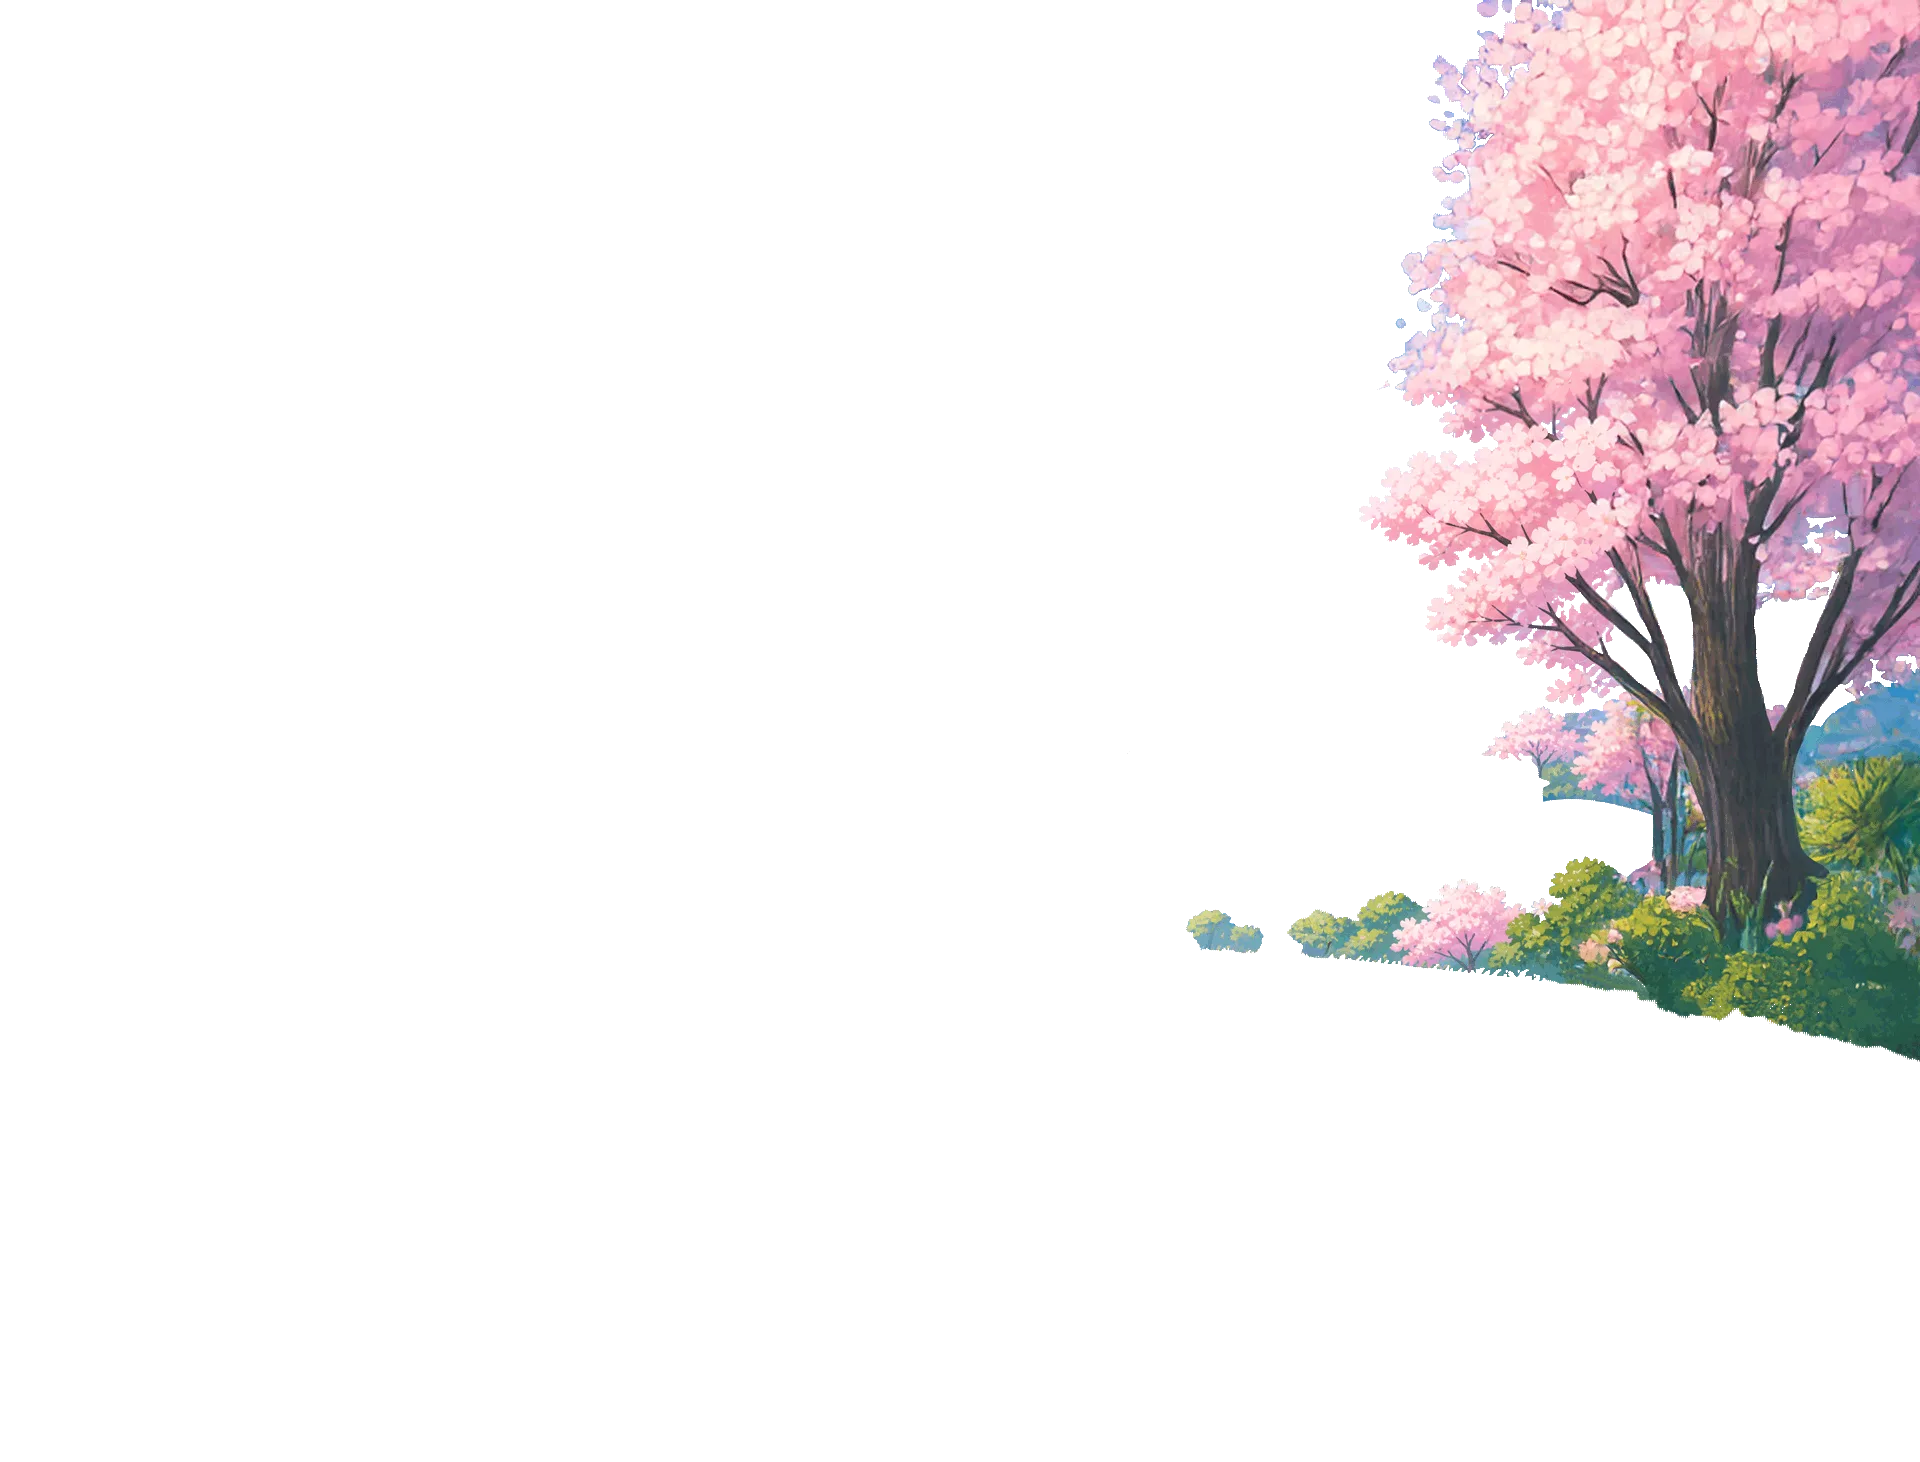
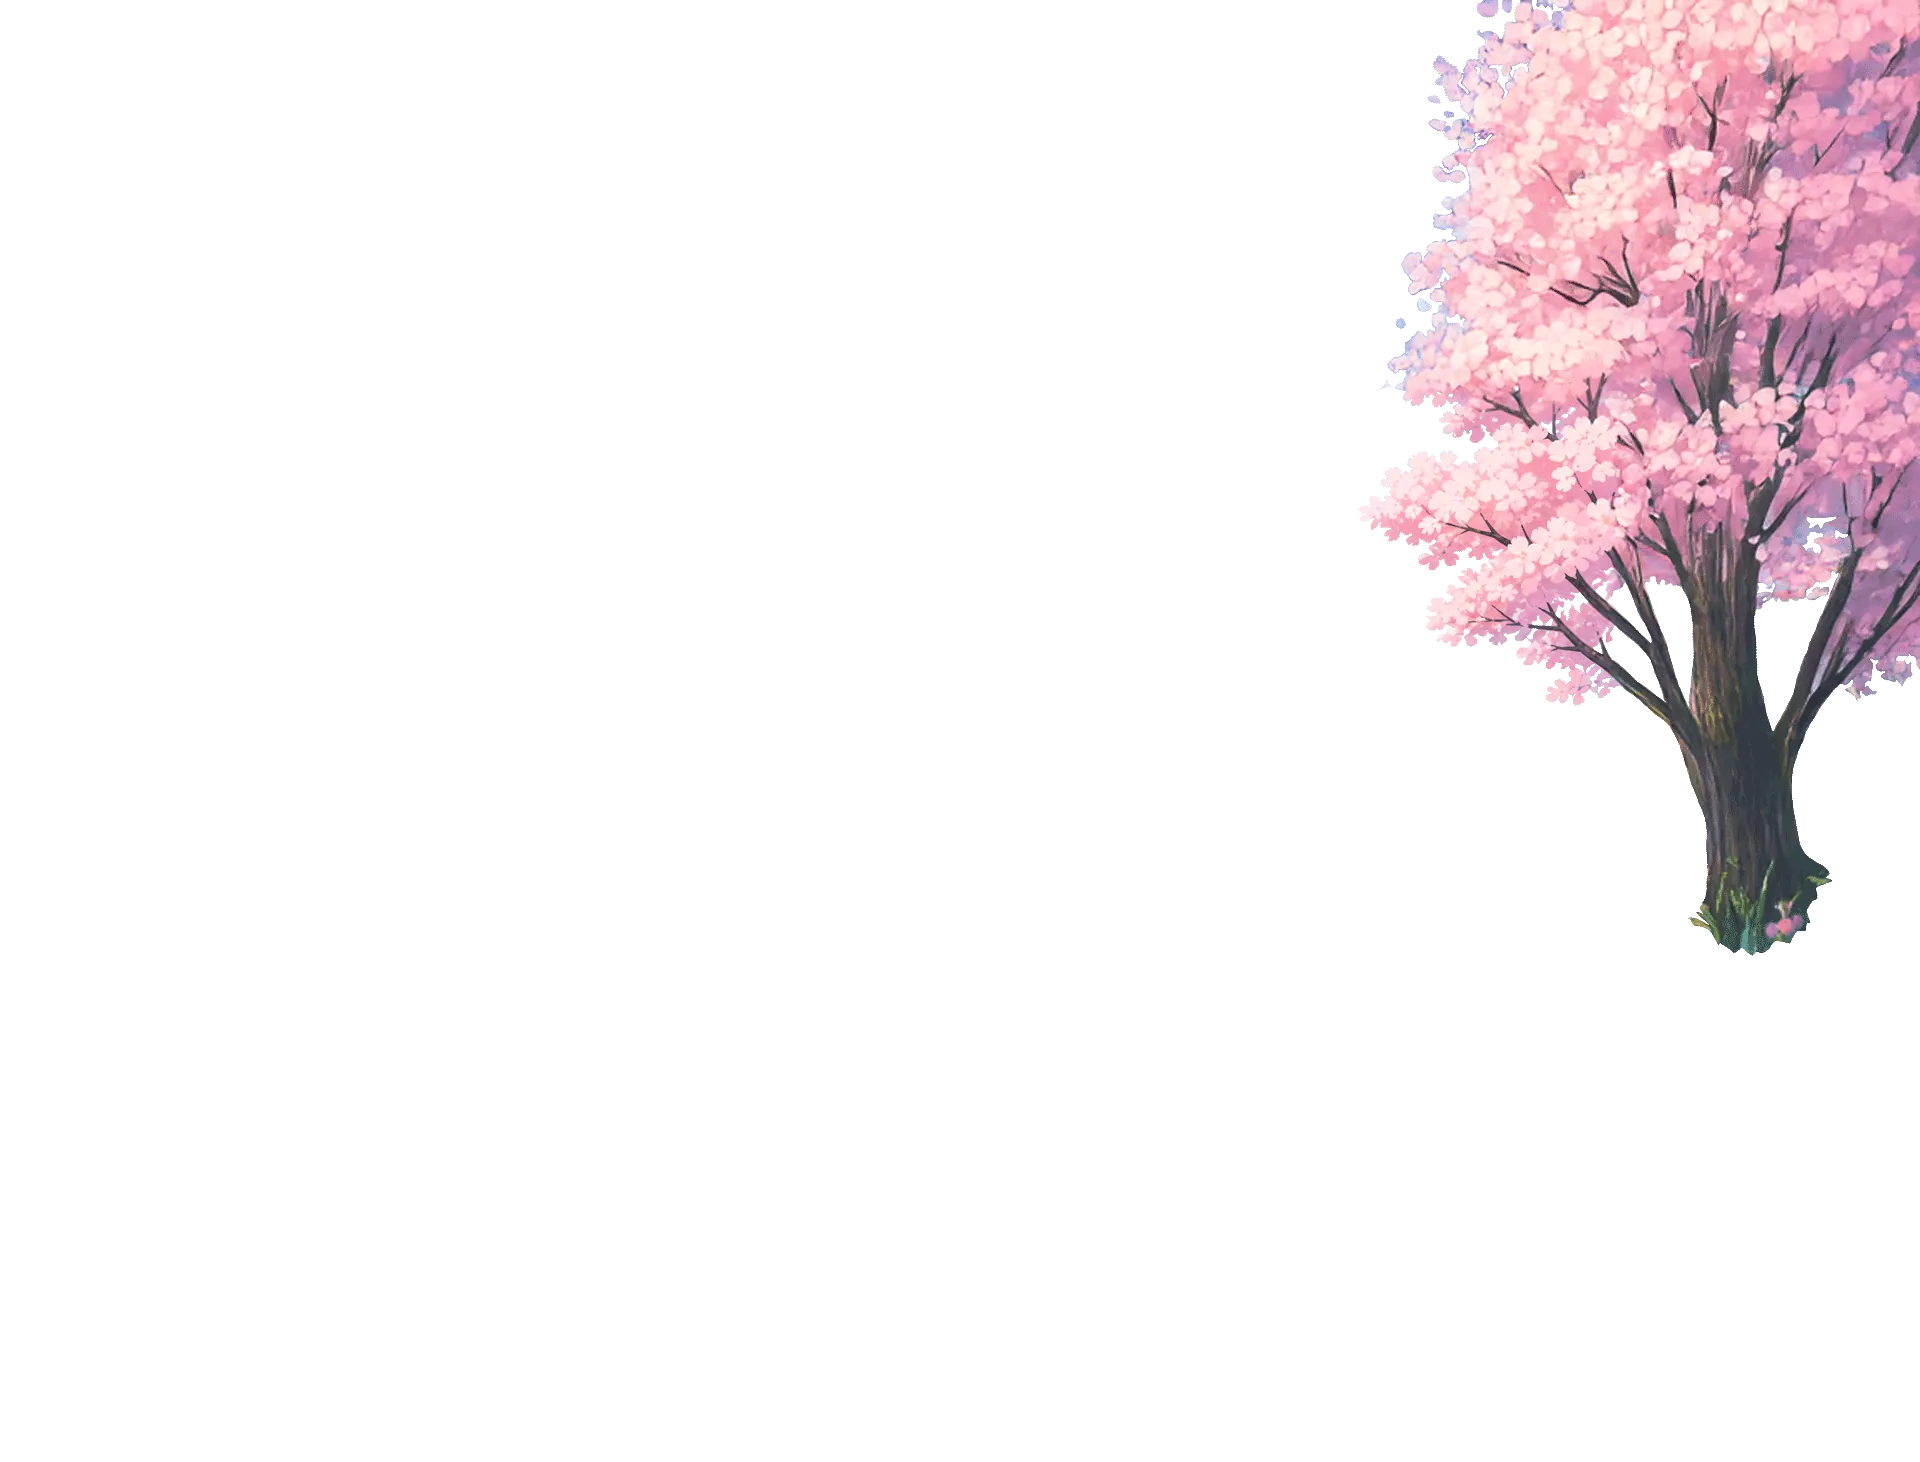
Hero: lighter v2 bg layers, mobile mascots/shadows per Figma, inline shadow blur
- Background: replace the 5-layer set with a lighter 4-layer v2 — sky +
  mountains + lake flattened into one opaque 01-base.webp, plus tree-L/R
  and grass. ~540KB → ~440KB and one fewer request. DEPTH/preload/loops
  updated across all 3 layouts.
- Mobile mascots: resize to 0.4x of desktop (Figma 773:40684 size="sm")
  — pepe 70x93.62, printer 132.4x115.48, shibu 82x108.69.
- Add the mobile drop-shadow layer (Figma 665:56490) that was missing,
  inside the parallax group so it tracks the crew.
- Render all shadows inline (was <img>): Safari drops SVG feGaussianBlur
  on <img>, so the shadow ellipses showed hard-edged there. Generalize
  the Mascot helper to InlineSvg and namespace internal ids (useId) so
  the shadows reused across breakpoints don't collide.

Changed region(s): [[0.625, 0.4617, 1.0, 0.7387]]

diff --git a/src/components/sections/Hero.tsx b/src/components/sections/Hero.tsx
@@ -1,4 +1,4 @@
-import { useEffect, useRef, useState, type ReactNode } from 'react'
+import { useEffect, useId, useRef, useState, type ReactNode } from 'react'
 import {
   motion,
   useReducedMotion,
@@ -15,6 +15,12 @@ import { asset } from '@/lib/utils'
  * render them as an opaque raster and hide those groups. */
 import pepeSvg from '@/assets/figma/pepe.svg?raw'
 import shibuSvg from '@/assets/figma/shibu.svg?raw'
+/* Shadows are inlined too: their soft blobs use SVG `feGaussianBlur`,
+ * and Safari does NOT render SVG filters when the SVG is loaded via
+ * <img> (Chrome does) — so as <img> the shadows showed hard-edged
+ * ellipses in Safari. Inline in the DOM, the blur renders everywhere. */
+import shadowsSvg from '@/assets/figma/shadows.svg?raw'
+import shadowsMobileSvg from '@/assets/figma/shadows-mobile.svg?raw'
 
 /* ============================================================
  * Entrance cascade timeline (seconds from mount):
@@ -40,26 +46,31 @@ const CONTENT_STAGGER = 0.13
 const CONTENT_RISE_DURATION = 0.55
 
 /* ============================================================
- * Layered parallax — the flat scene was split into 5 transparent
- * 1920×1462 layers (same registration as the original
- * background.webp). The full-canvas `01-sky` layer is the backmost
- * plate; the rest overlay it 1:1. (The flat background.webp base was
- * removed: it held a full copy of the scene that stayed put while the
- * foreground rose on scroll, reading as a duplicate image below.)
+ * Layered parallax (v2 set) — the scene is built from 4 1920×1462
+ * layers, all on the same registration:
+ *   01-base  — opaque sky + mountains + lake (the backmost plate)
+ *   02-tree-L / 03-tree-R — the transparent framing cherry trees
+ *   04-grass — the transparent foreground meadow (carries the mascots)
+ * (Earlier the back was split into separate sky + lake layers; they're
+ * now flattened into one base JPG→WebP — one fewer request, lighter.)
  * Each layer shifts by `depth × SCROLL_PX` with scroll only (the
  * cursor-driven parallax was removed). SCROLL_PX is NEGATIVE so on
  * scroll-down every layer rises, and since the offset scales with depth
  * the foreground (grass + mascots, depth 1) rises faster than the
- * background (sky, depth 0.04) — classic depth parallax. The grass
- * layer carries the three mascots (nested in its group), so the
- * characters stay locked to the floor.
+ * base (depth 0.06) — classic depth parallax. The grass layer carries
+ * the three mascots (nested in its group), so they stay locked to the
+ * floor.
  * ============================================================ */
 const SCROLL_PX = -280
 /* Mobile uses a much smaller scroll travel: the hero is a fixed 655 px
  * frame, so the desktop -280 px would shoot the foreground up past the
  * CTA and expose the static base behind it (the "doubled" image). */
 const MOBILE_SCROLL_PX = -42
-const DEPTH = { sky: 0.04, lake: 0.12, tree: 0.55, grass: 1 } as const
+/* v2 layer set: sky + mountains + lake are now baked into a single
+ * opaque `01-base` plate (lighter — one fewer layer), with the framing
+ * trees and the foreground grass as the only transparent overlays. The
+ * base sits furthest back so it gets the smallest parallax depth. */
+const DEPTH = { base: 0.06, tree: 0.55, grass: 1 } as const
 const layerSrc = (n: string) => asset(`/assets/figma/hero-layers/${n}.webp`)
 
 /* Every graphic that makes up the hero illustration, across all
@@ -68,15 +79,13 @@ const layerSrc = (n: string) => asset(`/assets/figma/hero-layers/${n}.webp`)
  * gated on ALL of these being decoded so the scene reveals as one
  * piece (no mascot popping in over a still-loading background). */
 const HERO_ASSETS = [
-  '/assets/figma/hero-layers/01-sky.webp',
-  '/assets/figma/hero-layers/02-lake.webp',
-  '/assets/figma/hero-layers/03-tree-L.webp',
+  '/assets/figma/hero-layers/01-base.webp',
+  '/assets/figma/hero-layers/02-tree-L.webp',
   '/assets/figma/hero-layers/03-tree-R.webp',
   '/assets/figma/hero-layers/04-grass.webp',
   // Pepe & Shibu are inlined (bundled, not fetched) so they're ready
   // the instant React renders — no need to gate the fade on them.
   '/assets/figma/hero-mascot.svg',
-  '/assets/figma/shadows.svg',
   '/assets/figma/hill-ellipse.svg',
 ] as const
 
@@ -148,18 +157,16 @@ function ParallaxGroup({
 }
 
 /**
- * An inline mascot SVG (Pepe / Shibu). Renders the raw `?raw` markup so
- * the `.bm-body` / `.bm-eye-*` groups stay live in the DOM for the CSS
- * breathe + blink animations baked into each SVG's own <style> (scoped
- * under a per-character root class, with per-character transform-origins
- * and timing). Sized exactly like the <img> it replaces: the wrapper
- * carries the width/height + position and `[&>svg]:size-full` stretches
- * the inner <svg> to fill it (the wrapper dims already match each viewBox
- * aspect, so there's no letterboxing). `overflow-visible` lets the subtle
- * breathe scale paint past the viewBox edge instead of being clipped by
- * the SVG viewport (the art fills the canvas to the edges).
+ * Renders a raw (`?raw`) SVG string inline in the DOM (not via <img>).
+ * Used for the mascots (so the `.bm-body` / `.bm-eye-*` groups stay live
+ * for the CSS breathe/blink animations baked into each SVG's <style>) and
+ * for the drop shadows (so their `feGaussianBlur` actually renders in
+ * Safari — Safari drops SVG filters on <img>). The wrapper carries the
+ * width/height + position and `[&>svg]:size-full` stretches the inner
+ * <svg> to fill it; `overflow-visible` lets the mascot breathe-scale and
+ * the shadow blur paint past the viewBox edge instead of being clipped.
  */
-function Mascot({
+function InlineSvg({
   svg,
   className,
   style,
@@ -170,6 +177,17 @@ function Mascot({
   style?: React.CSSProperties
   label?: string
 }) {
+  /* Namespace internal ids (filter / gradient / clip) per instance so
+   * the same SVG inlined in more than one breakpoint block (e.g. the
+   * desktop shadows reused in the tablet layout) doesn't emit duplicate
+   * ids — a `url(#id)` could otherwise resolve to a hidden copy and drop
+   * the filter. Only touches id= / url(#…) / href="#…"; the mascots have
+   * no ids (class-scoped), so they're unaffected. */
+  const uid = useId().replace(/[^a-zA-Z0-9]/g, '')
+  const html = svg
+    .replace(/\bid="([^"]+)"/g, (_m, id) => `id="${id}-${uid}"`)
+    .replace(/url\(#([^)]+)\)/g, (_m, id) => `url(#${id}-${uid})`)
+    .replace(/\b(xlink:href|href)="#([^"]+)"/g, (_m, attr, id) => `${attr}="#${id}-${uid}"`)
   return (
     <div
       role={label ? 'img' : undefined}
@@ -177,7 +195,7 @@ function Mascot({
       aria-hidden={label ? undefined : true}
       className={`pointer-events-none [&>svg]:size-full [&>svg]:overflow-visible ${className ?? ''}`}
       style={style}
-      dangerouslySetInnerHTML={{ __html: svg }}
+      dangerouslySetInnerHTML={{ __html: html }}
     />
   )
 }
@@ -336,7 +354,7 @@ export default function Hero() {
               removed — it held a full copy of the scene that stayed put
               while the foreground rose on scroll, reading as a duplicate
               image below the parallaxing layers.) */}
-          {(['01-sky:sky', '02-lake:lake', '03-tree-L:tree', '03-tree-R:tree'] as const).map(
+          {(['01-base:base', '02-tree-L:tree', '03-tree-R:tree'] as const).map(
             (entry) => {
               const [file, key] = entry.split(':') as [string, keyof typeof DEPTH]
               return (
@@ -372,16 +390,16 @@ export default function Hero() {
               className="absolute top-[-220px] left-0 block h-auto w-[1920px] max-w-none"
             />
 
-            {/* Drop shadows under mascots */}
-            <img
-              src={asset('/assets/figma/shadows.svg')}
-              alt=""
-              className="absolute top-[784px] left-[600.63px] h-[74.208px] w-[747.384px] mix-blend-multiply"
-              data-node-id="384:2213"
+            {/* Drop shadows under mascots — inline so the blur renders
+                in Safari (filters are dropped on <img> there). */}
+            <InlineSvg
+              svg={shadowsSvg}
+              className="absolute mix-blend-multiply"
+              style={{ top: 784, left: 600.63, width: 747.384, height: 74.208 }}
             />
 
             {/* Frog (Pepe) — inline SVG, breathes + blinks */}
-            <Mascot
+            <InlineSvg
               svg={pepeSvg}
               label="Pepe the frog"
               className="absolute h-[231.81px] w-[175.07px] max-w-none"
@@ -390,7 +408,7 @@ export default function Hero() {
 
             {/* Dog (Shibu) — inline SVG, offset rhythm so it doesn't
                 blink in lockstep with Pepe */}
-            <Mascot
+            <InlineSvg
               svg={shibuSvg}
               label="Shiba the dog"
               className="absolute h-[269.75px] w-[205.77px] max-w-none"
@@ -478,7 +496,7 @@ export default function Hero() {
          * → these parallax with scroll only. (The old flat
          * `background.webp` base was removed; it duplicated below on
          * scroll.) */}
-        {(['01-sky:sky', '02-lake:lake', '03-tree-L:tree', '03-tree-R:tree', '04-grass:grass'] as const).map(
+        {(['01-base:base', '02-tree-L:tree', '03-tree-R:tree', '04-grass:grass'] as const).map(
           (entry) => {
             const [file, key] = entry.split(':') as [string, keyof typeof DEPTH]
             return (
@@ -537,22 +555,36 @@ export default function Hero() {
             scrollPx={MOBILE_SCROLL_PX}
             className="absolute inset-0"
           >
-            <Mascot
+            {/* Drop shadows under the crew — Figma 665:56490. One SVG with
+             * 3 blurred ellipses spaced for the mobile mascot layout (the
+             * desktop shadows graphic has different spacing). Positioned at
+             * the blur-bled box (Figma box 18.16/470/321.75×35.24 expanded
+             * by the inner -8.21%/-0.87%… inset). Painted first so it sits
+             * under the mascots; mix-blend-multiply blends it into the
+             * grass behind. */}
+            <InlineSvg
+              svg={shadowsMobileSvg}
+              className="absolute max-w-none mix-blend-multiply"
+              style={{ left: 15.36, top: 467.11, width: 326.218, height: 39.803 }}
+            />
+            {/* Mascots — mobile sizes are 0.4× of desktop (Figma 773:40684,
+             * size="sm"); positions are the Figma left/top in the 360 frame. */}
+            <InlineSvg
               svg={pepeSvg}
               className="absolute max-w-none"
-              style={{ left: 15.2, top: 403.2, width: 78, height: 103.27 }}
+              style={{ left: 15.2, top: 403.2, width: 69.998, height: 93.62 }}
             />
             <img
               src={asset('/assets/figma/hero-mascot.svg')}
               alt=""
               aria-hidden
               className="absolute max-w-none"
-              style={{ left: 107, top: 376, width: 148 }}
+              style={{ left: 107, top: 376, width: 132.399, height: 115.48 }}
             />
-            <Mascot
+            <InlineSvg
               svg={shibuSvg}
               className="absolute max-w-none"
-              style={{ left: 261.4, top: 392.4, width: 91.5, height: 119.96 }}
+              style={{ left: 261.4, top: 392.4, width: 82.002, height: 108.69 }}
             />
           </ParallaxGroup>
         </div>
@@ -625,7 +657,7 @@ export default function Hero() {
            * `background.webp` base was removed — it held a full copy of
            * the scene that stayed put on scroll, reading as a duplicate
            * below the parallaxing layers.) */}
-          {(['01-sky:sky', '02-lake:lake', '03-tree-L:tree', '03-tree-R:tree'] as const).map(
+          {(['01-base:base', '02-tree-L:tree', '03-tree-R:tree'] as const).map(
             (entry) => {
               const [file, key] = entry.split(':') as [string, keyof typeof DEPTH]
               return (
@@ -668,12 +700,11 @@ export default function Hero() {
               }}
             />
 
-            {/* Drop shadows under mascots — Figma 1006:113050. */}
-            <img
-              src={asset('/assets/figma/shadows.svg')}
-              alt=""
-              aria-hidden
-              className="absolute block max-w-none mix-blend-multiply"
+            {/* Drop shadows under mascots — Figma 1006:113050. Inline so
+                the blur renders in Safari. */}
+            <InlineSvg
+              svg={shadowsSvg}
+              className="absolute max-w-none mix-blend-multiply"
               style={{
                 width: 635.276,
                 height: 63.076,
@@ -684,7 +715,7 @@ export default function Hero() {
             />
 
             {/* Pepe (frog) — inline SVG */}
-            <Mascot
+            <InlineSvg
               svg={pepeSvg}
               label="Pepe the frog"
               className="absolute block max-w-none"
@@ -712,7 +743,7 @@ export default function Hero() {
             />
 
             {/* Shibu (dog) — inline SVG, offset rhythm */}
-            <Mascot
+            <InlineSvg
               svg={shibuSvg}
               label="Shiba the dog"
               className="absolute block max-w-none"

diff --git a/index.html b/index.html
@@ -18,9 +18,8 @@
          background.webp composite was removed — the layers fully
          reconstruct the scene, so preloading it was wasted bandwidth
          that also delayed the fade. -->
-    <link rel="preload" as="image" href="/assets/figma/hero-layers/01-sky.webp" fetchpriority="high" />
-    <link rel="preload" as="image" href="/assets/figma/hero-layers/02-lake.webp" fetchpriority="high" />
-    <link rel="preload" as="image" href="/assets/figma/hero-layers/03-tree-L.webp" fetchpriority="high" />
+    <link rel="preload" as="image" href="/assets/figma/hero-layers/01-base.webp" fetchpriority="high" />
+    <link rel="preload" as="image" href="/assets/figma/hero-layers/02-tree-L.webp" fetchpriority="high" />
     <link rel="preload" as="image" href="/assets/figma/hero-layers/03-tree-R.webp" fetchpriority="high" />
     <link rel="preload" as="image" href="/assets/figma/hero-layers/04-grass.webp" fetchpriority="high" />
     <meta name="viewport" content="width=device-width, initial-scale=1.0" />